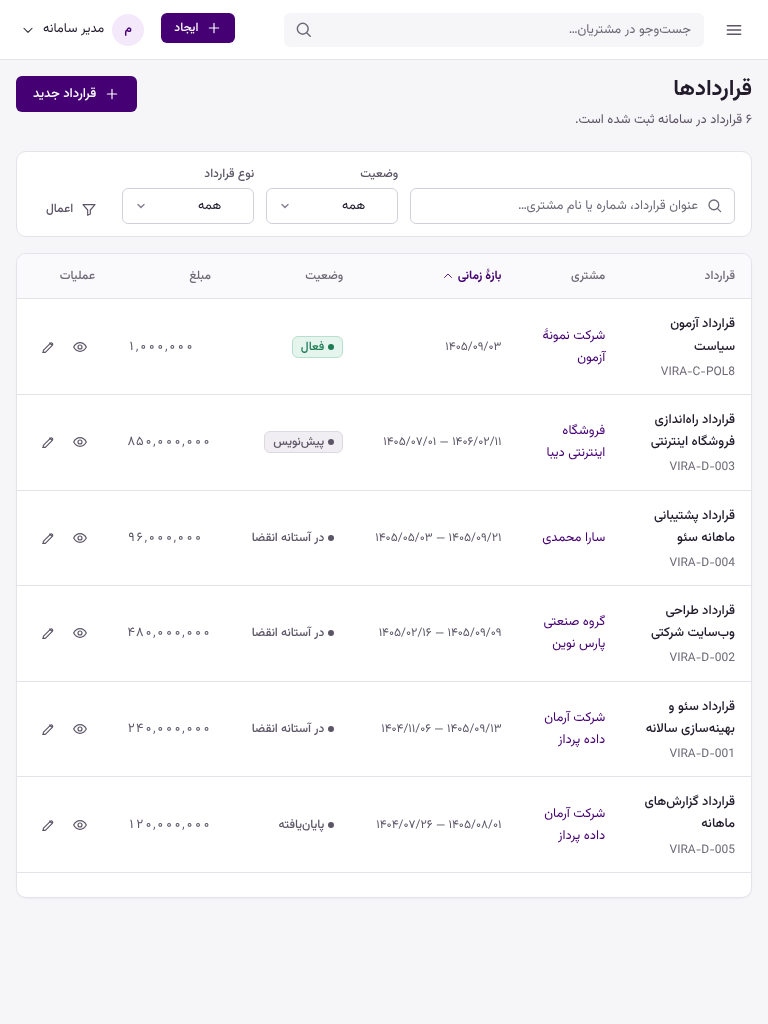
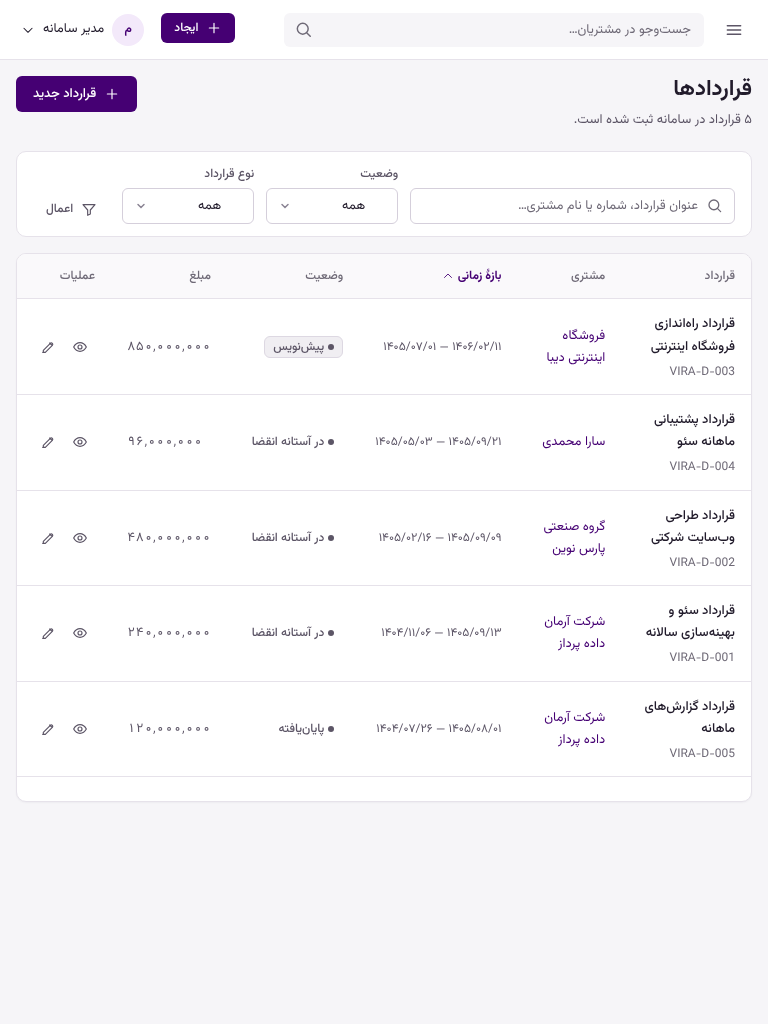
docs: record the 25-suite / 795-assertion green run
Full --repeat 2 run after the policy layer:
  25 suites · 25 passed · 0 failed · 0 skipped
  795 assertions · all passed
  isolation: shared database untouched (measured around each pass)
  repeatable: yes on all five dimensions
  exit 0

Row counts back to the exact baseline the policy test had disturbed
(users 2, projects 3, contracts 5, customers 7, roles 4).

diff --git a/docs/SECURITY_REVIEW.md b/docs/SECURITY_REVIEW.md
@@ -13,7 +13,8 @@
 | ۳ | Session regenerate | `PASS` | پس از ورود |
 | ۴ | CSRF | `PASS` | همهٔ فرمها `@csrf` |
 | ۵ | مجوز روی هر مسیر | `PASS` | `permission:` middleware — ۲۲/۲۲ |
-| ۶ | سیاستهای Model | **`FAIL`** | **`app/Policies/` وجود ندارد** |
+| ۶ | سیاستهای Model (قرارداد/پروژه) | `PASS` | ۲ Policy، ۱۴ اَسِرشِن روی `Gate::allows()` |
+| ۶ب | سیاستهای Model (اعتبارنامه/فیش) | `NOT IMPLEMENTED` | مدل موجود نیست — M4/M7 |
 | ۷ | ثبت رد دسترسی | `PASS` | ۲۷ ردیف `denied` در `audit_logs` |
 | ۸ | رمزنگاری اعتبارنامه | **`FAIL`** | کلاس هست، **فراخوانی نمیشود** |
 | ۹ | مدیریت کلید | `NOT IMPLEMENTED` | `VIRA_CREDENTIAL_KEY` نیست |
@@ -49,15 +50,29 @@
 
 ---
 
-## ۳. یافتهٔ دوم: بدون Policy
+## ۳. یافتهٔ دوم: Policy — **رفع شد برای قرارداد و پروژه**
 
-مجوزها فقط با middleware روی مسیر اعمال میشوند. این برای مسیرهای ساده بس است،
-اما برای **مالکیت رکورد** کافی نیست:
+مجوزها فقط با middleware روی مسیر اعمال میشدند. middleware پاسخ میدهد «آیا این
+کاربر اصلاً میتواند به قراردادها دست بزند»، اما نمیتواند پاسخ دهد «آیا میتواند
+به *این* قرارداد دست بزند» — چون مدل در زمان تطبیق مسیر هنوز بارگذاری نشده.
 
-> کاربری با مجوز `contracts.update` میتواند قراردادِ هر تیم دیگری را ویرایش کند،
-> چون هیچ `ContractPolicy` وجود ندارد که مالکیت را بررسی کند.
+**وضعیت فعلی:**
 
-**رفع:** لایهٔ Policy برای `Contract`, `Project`, `Credential`, `Payslip`.
+| مدل | Policy | اثبات |
+|-----|--------|-------|
+| `Contract` | ✅ `ContractPolicy` | T-POL-01…06 |
+| `Project` | ✅ `ProjectPolicy` | T-POL-07…12 |
+| `Credential` | ❌ | مدل وجود ندارد (M4) |
+| `Payslip` | ❌ | مدل وجود ندارد (M7) |
+
+**مهمترین تفکیک:** `viewFinancials` از `view` جدا است. مدیر پروژه میتواند بداند
+قرارداد فعال است بدون اینکه بداند مشتری چقدر پرداخت کرده. §10 این را الزام کرده.
+
+**آنچه عمداً انجام نشد:** مدل تیم/قلمرو ساخته نشد. هیچ مدلی تأیید نشده، پس
+`update()` به مجوز تکیه میکند و شاخهٔ مالک فقط یک نقطهٔ تغییر برای آینده است.
+
+**تست:** `policies.php` مسیر واقعی `Gate::allows()` را صدا میزند، نه helper مجوز را
+— Gate بدون Policy ثبتشده بیصدا رد میشود و فقط مسیر واقعی این را اثبات میکند.
 
 ---
 
@@ -67,7 +82,8 @@
 |-------|-----|------|
 | سرقت اعتبارنامهٔ مشتری از DB | **بالا** | رمزنگاری پاکت (M6) |
 | سرقت کلید | **بالا** | کلید جدا، خارج از git |
-| دسترسی افقی (کاربر A → دادهٔ B) | **متوسط** | Policy (ندارد) |
+| دسترسی افقی (قرارداد/پروژه) | متوسط | ✅ Policy پیاده شد |
+| دسترسی افقی (اعتبارنامه/فیش) | متوسط | ❌ هنوز بیPolicy |
 | XSS از محتوای قرارداد | متوسط | Blade escape ✓ |
 | سرقت session | متوسط | `Secure`/`HttpOnly` (بررسی نشد) |
 | افشای در log | متوسط | Audit مبلغ را ثبت نمیکند ✓ |

diff --git a/docs/TEST_STRATEGY.md b/docs/TEST_STRATEGY.md
@@ -1,6 +1,6 @@
 # استراتژی تست — VIRA CRM
 
-**وضعیت:** ۲۴ سوییت · اجرای واقعی · بدون mock در مسیر محصول
+**وضعیت:** ۲۵ سوییت · اجرای واقعی · بدون mock در مسیر محصول
 
 ---
 
@@ -29,7 +29,7 @@ CRM، جریان کار مهمتر از تابع است.
 
 ---
 
-## ۳. ۲۴ سوییت
+## ۳. ۲۵ سوییت
 
 | # | شناسه | نوع | اَسِرشِن | چه چیزی |
 |---|-------|-----|---------|---------|
@@ -57,21 +57,22 @@ CRM، جریان کار مهمتر از تابع است.
 | ۲۲ | `lock-concurrency` | Node | ۱۵ | قفل + همزمانی |
 | ۲۳ | `flow-projects` | مرورگر | ۲۸ | جریان کامل پروژه |
 | ۲۴ | `docs-integrity` | Node | ۱۹ | اسناد + همگامی ماتریس |
+| ۲۵ | `policies` | PHP | ۱۴ | Policy سطح رکورد |
 
 ---
 
 ## ۳.۱ نتیجهٔ واقعی آخرین اجرای کامل
 
 ```
-suites     22 total · 22 executed · 22 passed · 0 failed · 0 skipped
-assertions 728 executed · 728 passed · 0 failed · 0 skipped
+suites     25 total · 25 executed · 25 passed · 0 failed · 0 skipped
+assertions 795 executed · 795 passed · 0 failed · 0 skipped
 isolation  shared database untouched (every pass)
 repeatable yes
 exit 0
 ```
 
-هر پنج بُعد تکرارپذیری یکسان، همهٔ ۲۲ سوییت سبز، دیتابیس مشترک دستنخورده
-در **هر دو پاس**. artifact: `.arena/repeat-2026-11-24T11-07-56-007Z.json`
+هر پنج بُعد تکرارپذیری یکسان، همهٔ ۲۵ سوییت سبز، دیتابیس مشترک دستنخورده
+در **هر دو پاس**. artifact: `.arena/repeat-2026-11-24T13-07-54-940Z.json`
 
 ---
 

diff --git a/docs/PROJECT_STATUS.md b/docs/PROJECT_STATUS.md
@@ -21,7 +21,7 @@
 
 | مورد | وضعیت | شاهد |
 |------|-------|------|
-| Regression Suite | `PASS` | ۲۴ سوییت · ۲ پاس · اجرای واقعی |
+| Regression Suite | `PASS` | ۲۵ سوییت · **۷۹۵ اَسِرشِن** · ۰ شکست · exit 0 |
 | **Execution Lock** | **`PASS`** | `lock-concurrency.mjs` — ۱۵ اَسِرشِن، شامل SIGKILL |
 | Exit Code Contract | `PASS` | ۰/۱/۲/۳ — `runner-contract.mjs` ۱۱ اَسِرشِن |
 | Repeatability | `PASS` | ۵ بُعد مقایسه + artifact در `.arena/` |
@@ -60,7 +60,7 @@
 |------|-------|---------|
 | Authentication | `PASS` | bcrypt، throttle، session regenerate |
 | RBAC (middleware) | `PASS` | ۳۹ مجوز، روی همهٔ مسیرها |
-| RBAC (Policy) | `FAIL` | **هیچ `app/Policies/` وجود ندارد** |
+| RBAC (Policy) | `PASS` | `ContractPolicy` + `ProjectPolicy` · ۱۴ اَسِرشِن |
 | Audit (نوشتن) | `PASS` | ۲۳۲ ردیف، شامل ۲۷ `denied` |
 | Audit (مشاهده) | `NOT IMPLEMENTED` | — |
 | `EnvelopeEncrypter` (واحد) | `PASS` | ۲۶ اَسِرشِن |

diff --git a/docs/CHANGELOG.md b/docs/CHANGELOG.md
@@ -6,6 +6,18 @@
 
 ## [Unreleased]
 
+### امنیت — لایهٔ Policy
+
+#### افزوده
+- `ContractPolicy` — تفکیک `viewFinancials` از `view`، ثبت صریح در `AppServiceProvider`.
+- `ProjectPolicy` — مالک پروژه بدون مجوز سراسری میتواند باز کند، اما مبلغ را نه.
+- `policies.php` — ۱۴ اَسِرشِن روی `Gate::allows()` واقعی.
+- `errors/500.blade.php` — بدون افشای جزئیات، با شناسهٔ همبستگی مستقل.
+
+#### رفع
+- تست policy در ابتدا روی دیتابیس مشترک مینوشت؛ چک جداسازی آن را گرفت
+  (`SHARED DATABASE WAS MODIFIED`, users 2→6). اکنون دیتابیس خصوصی دارد.
+
 ### M3 — ماژول پروژهها
 
 #### افزوده
@@ -23,7 +35,7 @@
 
 #### نتیجهٔ اجرا
 ```
-22 suites · 728 assertions · 0 failed · 0 skipped
+25 suites · 795 assertions · 0 failed · 0 skipped
 isolation: shared database untouched (every pass)
 repeatable: yes · exit 0
 ```
